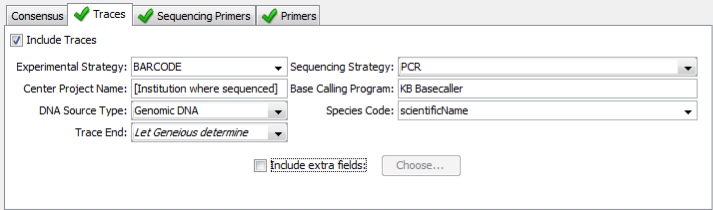
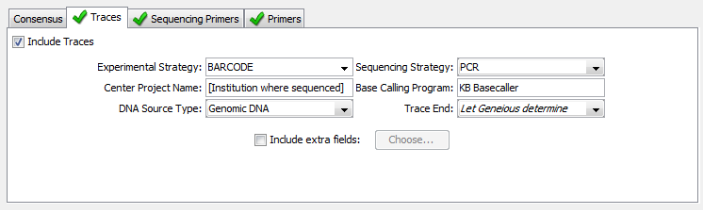
more genbank submission documentation updates
updated the trace section screenshot to reflect newest plugin version

Changed region(s): [[0.0, 0.0, 1.0, 1.0], [0.3585, 0.7429, 0.6572, 0.8571], [0.6273, 0.7429, 0.6572, 0.7714]]

diff --git a/Docs/gb_upload.rst b/Docs/gb_upload.rst
@@ -165,9 +165,6 @@ PCR Primers are a required component of the Barcode Data Standard. You will need
 Traces and Sequencing Primers
 -----------------------------
 
-.. note::
-  This component of the Geneious GenBank Submission Plug-in will be changing in the future, but for now follow these instructions for each field.
-
 Experimental Strategy
   Choose "BARCODE" for this field if you are creating a submission for one of the official BARCODE gene regions (COI for animals, or rbcL and matK for plants). If you are submitting another region, then choose "TARGETED LOCUS".
 
@@ -183,15 +180,14 @@ Base Calling Program
 DNA Source Type
   This will always be "Genomic DNA".
 
-Species Code
-  Choose "scientificName" for this field.
-
 Trace End
   Leave this as the default value of "*Let Geneious determine*"
 
-.. image:: /images/traces_defaults.png
+.. figure:: /images/trace_defaults.png
   :align: center
-  :target: /en/latest/_images/traces_defaults.png
+  :target: /en/latest/_images/trace_defaults.png
+
+  **If your version of the Geneious plug-in does not show this exact set of field options for "Traces", then you need to upgrade to version 6.2.**
 
 Just like for the previous "PCR Primers" section, these fields should all be populated by Geneious automatically.
 
